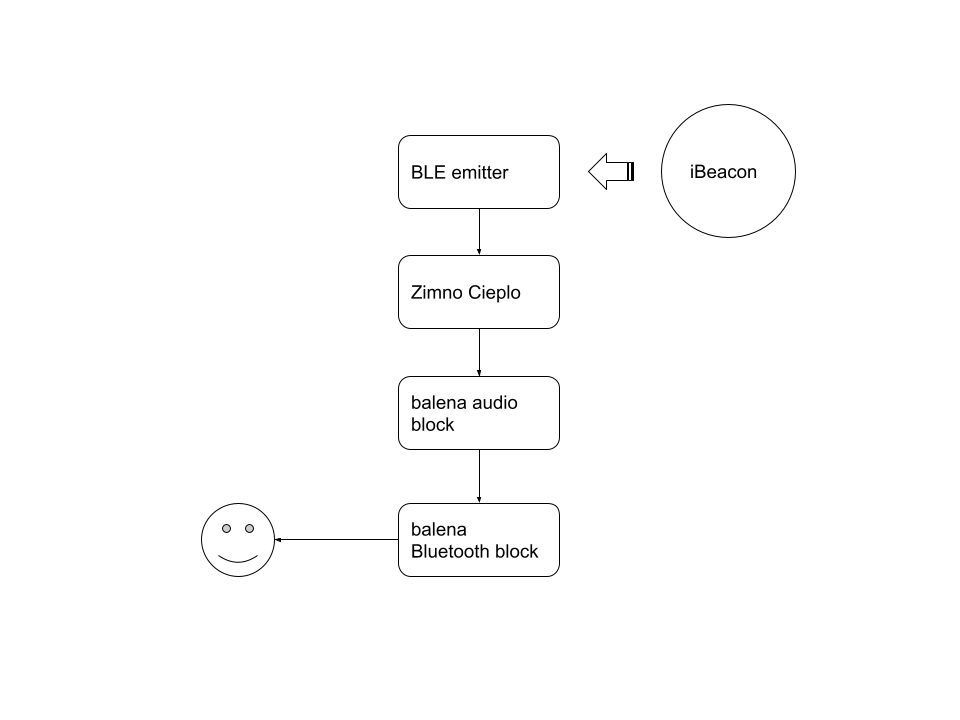
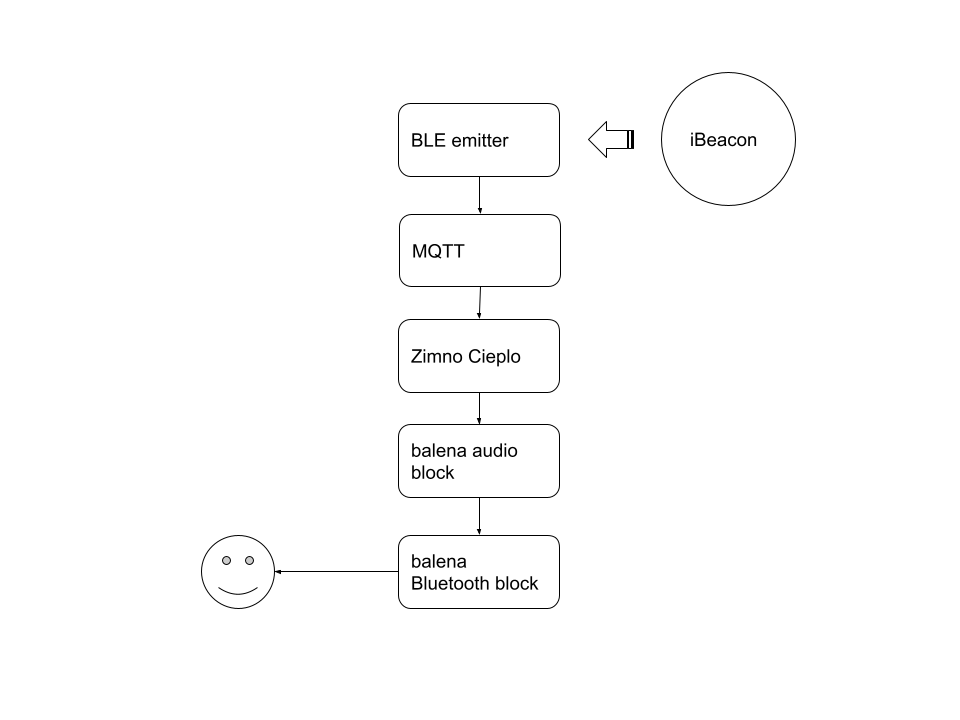
Wrote zimnocieplo service and BLE Emitter service subsections in README.md

diff --git a/README.md b/README.md
@@ -23,24 +23,48 @@ The price of a Bluetooth can vary significantly if you do not yet have one. With
 
 ## System overview
 
+Overview of the system is to be seen on the diagram below. One thing to note is that `BLE emitter` service can be replaced by any type of emitter, which emits current distance to, say, UWB, wifi, RFID etc.
+
 ![System overview](images/system-overview.png "System overview")
 
 
 ## `zimnocieplo` service
 
+`zimnocieplo` service receives JSON string encoded`Distance`
+
+```
+export interface Distance {
+    type: DistanceType;
+    previous: number | null;
+    current: number | null;
+}
+
+type DistanceType = 'BLE';
+```
+
+compares the current distance with the previious to give user an appropriate navigation. Interval between navigation steps is decided timing of message arrival, which is determined by the emitter service.
+
+![navigation](images/navigation.png "navigation")
+![algorithm](images/algorithm.png "algorithm")
+
 
 ## `BLE Emitter` service
 
+`BLE` service uses `Bluez` facility to scan nearby bluetooth devices periodically and outputs results to a file internally. Then the file contents are streamed to a JavaScript program running in the service to be further processed to be sent to the MQTT server with a defined interval.
 
-## `audio` and `bluetooth` services
 
+## `audio`, `bluetooth` and `mqtt` services
 
 These services are building blocks provided by the balena team:
 
 - [audio block](https://github.com/balenablocks/audio)
 - [bluetooth block](https://github.com/balenablocks/bluetooth)
 
+MQTT service is a bare Eclipse MQTT server. You can find the [Docker image on Dockerhub](https://hub.docker.com/_/eclipse-mosquitto/).
+
 
 ## Limitations
 
-Locationing with Bluetooth RSSI has a known issues of large fluctuations of measurements which leads to low accurary of distance measurements. This project is a no exception in the sense that the system goes back and forth between detecting and non-detecting states even at close distances of 0.5m to 1.5m. Another facet is that a user need to ssh into the bluetooth device and pair the headset, thouch which should be done only once.
+Locationing with Bluetooth RSSI has a known issues of large fluctuations of measurements which leads to low accurary of distance measurements. This project is a no exception. Though hoppings of data points are smoothend by Kalman filter to some degree. in the sense that the system goes back and forth between detecting and non-detecting states even at close distances of 0.5m to 1.5m. Another facet is that a user need to ssh into the bluetooth device and pair the headset, thouch which should be done only once.
+
+Note: Principles of Kalman filter is concisely documented on [this paper of G. A. Terejanu ](https://cse.sc.edu/~terejanu/files/tutorialEKF.pdf) and implemented by integrating this [JavaScript library](https://github.com/piercus/kalman-filter).
